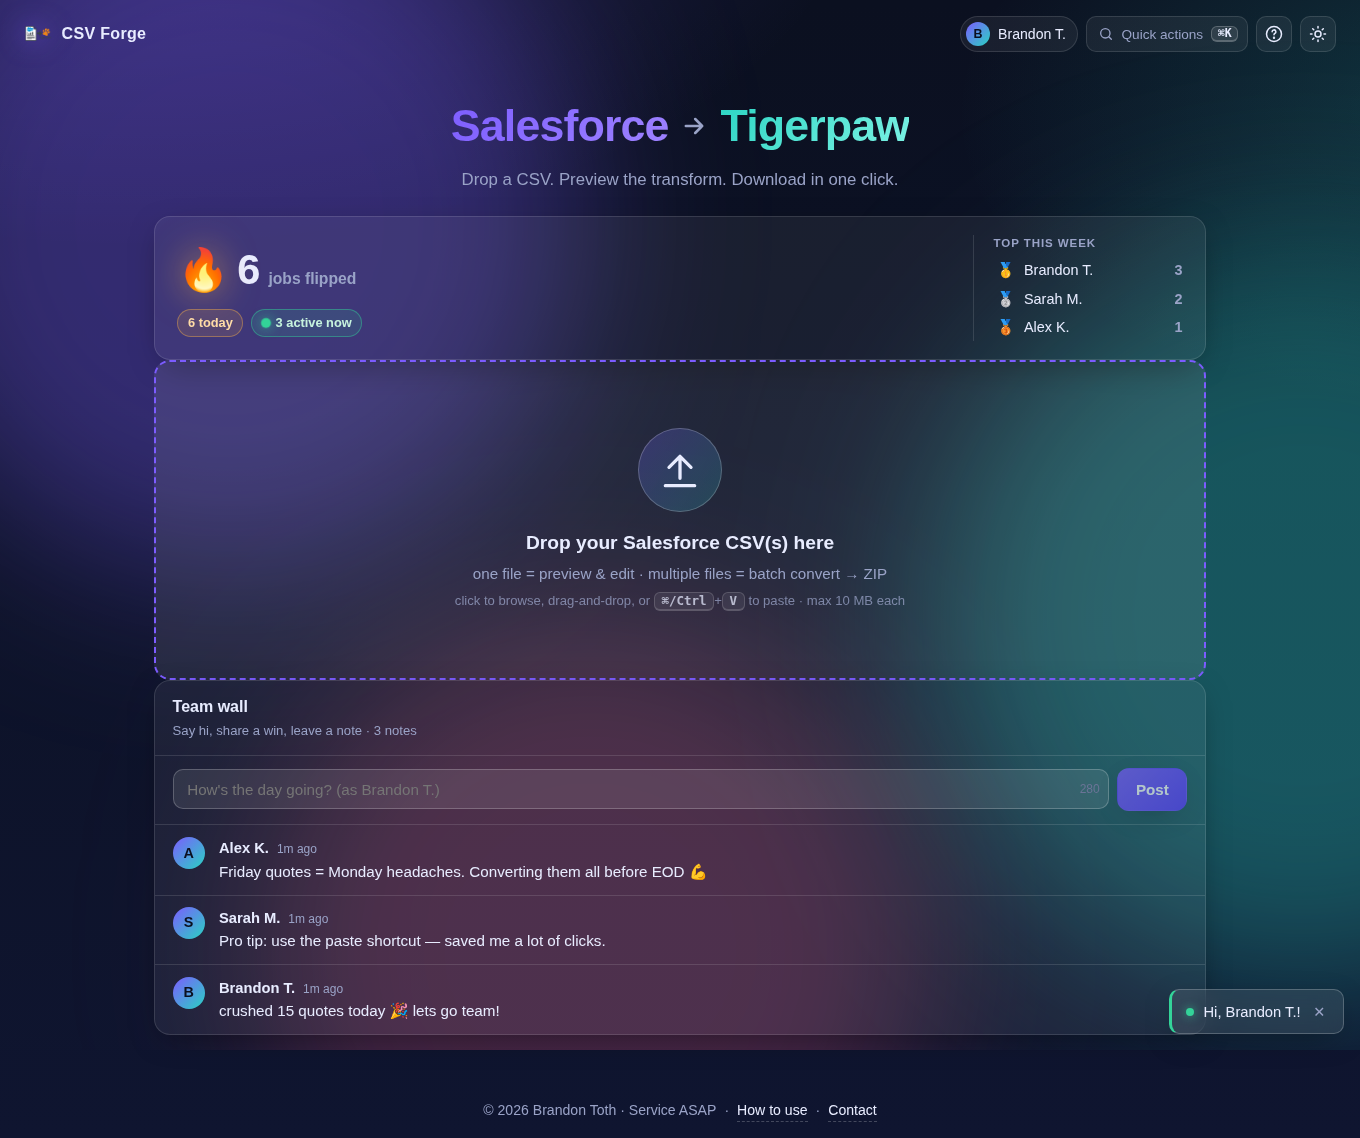
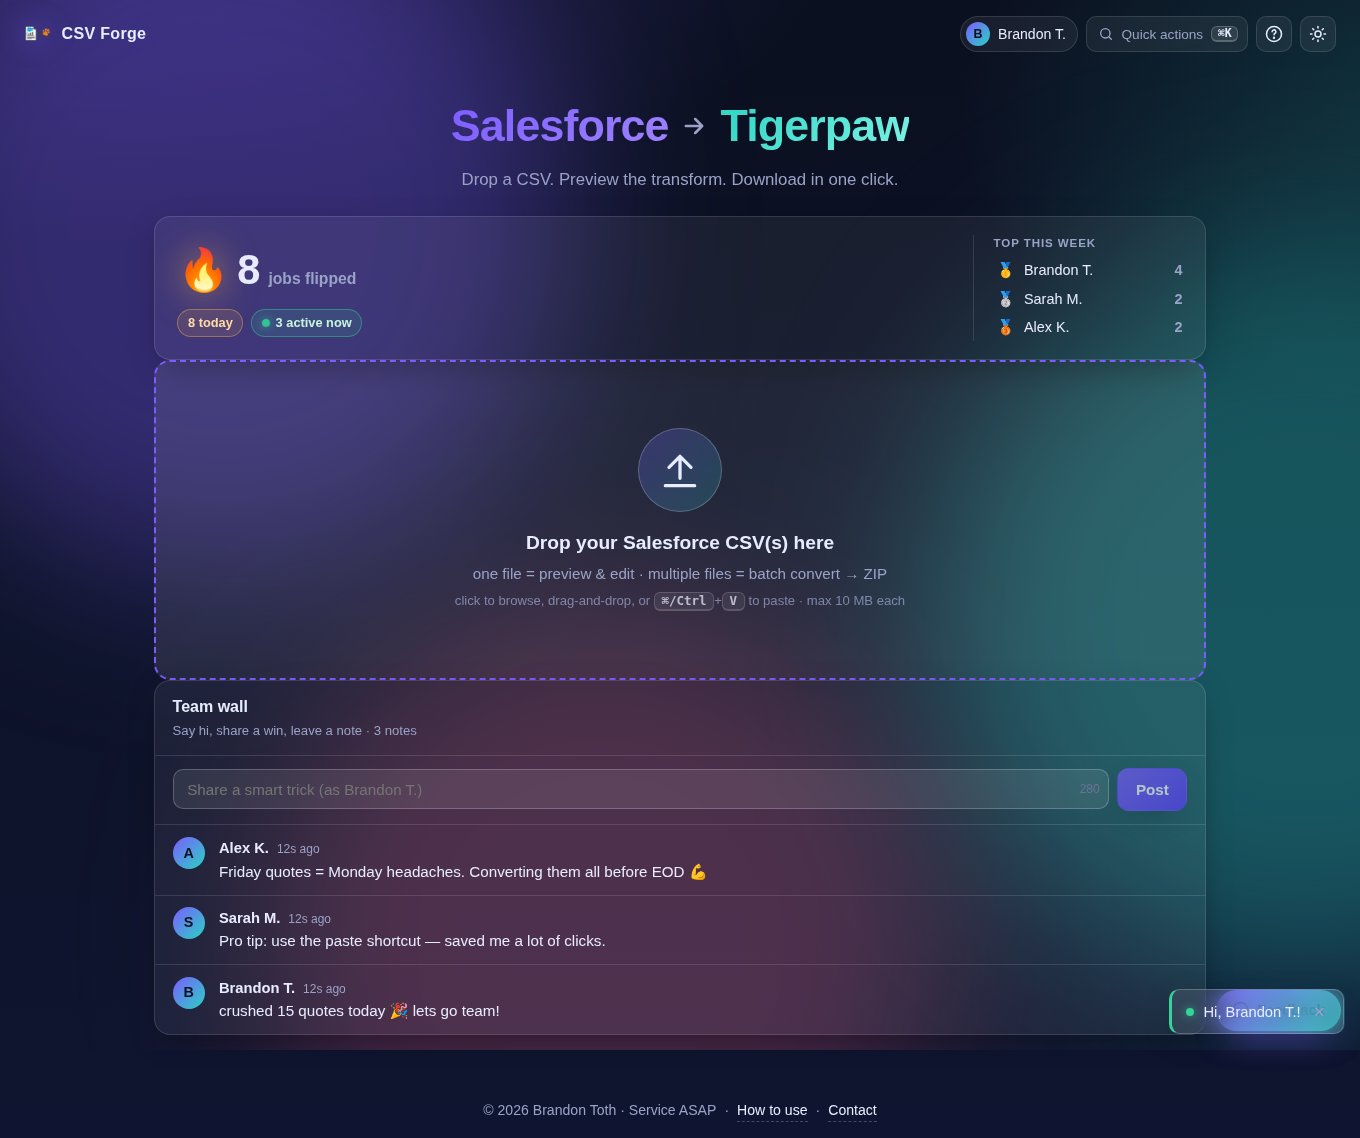
Docs: update README + CHANGELOG for v1.5.0; prune stale screenshots
- README version badge bumped to 1.5.0.
- Highlights: mention the feedback inbox, team wall, public stats on the
  idle page, and location flags in the admin event feed.
- New "Feedback — suggestions & issues" subsection under Tour, with
  both screenshots (modal + admin inbox) embedded inline.
- Admin section: expand the live event feed bullet to cover the
  feedback_submitted / note_posted event types and the gradient country
  flag badge that appears when ENABLE_GEOIP is on. Add a dedicated
  "Feedback inbox" bullet.
- Public API table: add POST /api/feedback.
- Admin API table: add the four /admin/api/feedback endpoints and note
  that /admin/api/events now includes geo per event.
- CHANGELOG: new 1.5.0 entry covering the feedback system, flag badges,
  country_code migration, endpoints, and the 4 new tests.
- Refresh 17-idle-with-wall.png so it shows the feedback FAB in the
  bottom-right corner.
- Delete three orphan screenshots superseded by newer versions:
  11-name-modal (replaced by 16-name-required),
  12-user-chip (subsumed into 17-idle-with-wall),
  18-admin-with-export (subsumed into 20-admin-feedback).

38/38 tests pass, eslint clean, vite build clean.

https://claude.ai/code/session_01BBhDEEaThvbCGpmssuPfLr

Changed region(s): [[0.8647, 0.8612, 0.9882, 0.9227], [0.1853, 0.6766, 0.2779, 0.7074], [0.2162, 0.7996, 0.2471, 0.8304]]

diff --git a/README.md b/README.md
@@ -1,6 +1,6 @@
 # Salesforce → Tigerpaw CSV Converter
 
-![Version](https://img.shields.io/badge/version-1.4.0-blue)
+![Version](https://img.shields.io/badge/version-1.5.0-blue)
 ![License: MIT](https://img.shields.io/badge/License-MIT-yellow.svg)
 [![Publish Docker image to GHCR](https://github.com/btoth525/Salesforce-to-Tigerpaw-Converter/actions/workflows/docker-publish.yml/badge.svg)](https://github.com/btoth525/Salesforce-to-Tigerpaw-Converter/actions/workflows/docker-publish.yml)
 
@@ -22,7 +22,10 @@ A production-ready Flask + React web app that turns Salesforce CSV exports into 
 - **Global drop-anywhere** — drag a file over the window and the entire app becomes a drop target.
 - **Toasts, skeleton loader, count-up stats** — the small polish that makes it feel like a $50/month product.
 - **Dark / light themes** with persistence, plus a keyboard help overlay (`?`).
-- **Admin panel at `/admin`** — see who's using it, live event feed, device breakdown, per-user drill-down. Password-gated.
+- **Public stats on the idle page** — animated "🔥 jobs flipped" counter, "active now" pulsing pill, top-5 weekly 🥇🥈🥉 leaderboard.
+- **Team wall** — 280-char shoutbox where the team celebrates wins or drops a tip.
+- **Feedback & issues inbox** — floating FAB on every page, admins see submissions in a filterable card on `/admin` with one-click resolve.
+- **Admin panel at `/admin`** — password-gated dashboard with live event feed, device breakdown, country flag + city on each event (with GeoIP on), per-user drill-down, CSV export, per-user delete, and reset.
 - **Safe by default** — 10 MB upload cap, encoding sniffed without loading the whole file, fail-fast `SECRET_KEY` + `ADMIN_PASSWORD` in production, directory-traversal protection, non-root container, `/api/health` HEALTHCHECK.
 
 ---
@@ -101,6 +104,21 @@ Below the drop zone, the **Team Wall** is a 280-char shoutbox where anyone who's
 identified can post a quick note — celebrate a win, share a tip, drop a vibe.
 Auto-refreshes every 30s.
 
+### Feedback — suggestions & issues
+
+![Feedback modal](docs/screenshots/19-feedback-modal.png)
+
+A floating **Feedback** button sits in the bottom-right of every page. Click
+it (or `⌘K → "Send feedback"`) to file a 💡 **Suggestion** or a 🐛 **Issue**
+— up to 2,000 characters, with a live counter. Submissions land in the admin
+dashboard instantly.
+
+![Admin feedback inbox](docs/screenshots/20-admin-feedback.png)
+
+Admins get a dedicated **Feedback** card with an open-count badge, filter
+chips (Open / Resolved / All), color-coded pills per kind, and per-row
+**Mark resolved / Reopen / Delete** actions.
+
 ---
 
 ## Admin panel
@@ -117,8 +135,13 @@ production).
   the right.
 - **Live event feed** — auto-refreshes every 5 seconds, color-coded pills
   per event type (`identify`, `preview`, `convert`, `convert_edited`,
-  `convert_batch`), filename + row count + device + IP + relative time.
+  `convert_batch`, `feedback_submitted`, `note_posted`), filename + row
+  count + device + IP + relative time. With `ENABLE_GEOIP=1`, public IPs
+  resolve to a gradient pill showing the **country flag emoji + map pin +
+  "City, Region, Country"** (ISP on hover).
 - **Device / OS / browser breakdowns** — the last 7 days, with percent bars.
+- **Feedback inbox** — filterable card with open-count badge; one-click
+  resolve / reopen / delete.
 - **User table** — active-now green dot, event count, last seen, first
   seen, device fingerprint, last IP. Click any row for the drill-down.
 
@@ -147,8 +170,12 @@ All admin JSON endpoints require the session cookie set by `/admin/login`.
 | `GET`  | `/admin/api/users` | All users, newest `last_seen` first |
 | `GET`  | `/admin/api/user/<id>` | Single user + last 50 events |
 | `POST` | `/admin/api/user/<id>/delete` | Delete one user and all their events + notes |
-| `GET`  | `/admin/api/events?limit=N` | Recent events (newest first, max 500) |
+| `GET`  | `/admin/api/events?limit=N` | Recent events (newest first, max 500). Includes geo on each event when GeoIP is on. |
 | `GET`  | `/admin/api/export` | Download every event as a CSV (for Excel / audit) |
+| `GET`  | `/admin/api/feedback?status=open\|resolved\|all` | List feedback items + open count |
+| `POST` | `/admin/api/feedback/<id>/resolve` | Mark a feedback item resolved |
+| `POST` | `/admin/api/feedback/<id>/reopen` | Reopen a resolved item |
+| `DELETE` | `/admin/api/feedback/<id>` | Delete a feedback item permanently |
 | `POST` | `/admin/api/reset` | Wipe all telemetry |
 
 ### Privacy
@@ -267,6 +294,7 @@ cd frontend && npm run build        # production bundle
 | `POST` | `/api/identify` | Register / update the current user's name. Rejects empty / "Guest". |
 | `GET`  | `/api/public-stats` | Public totals + top-5 weekly leaderboard (safe to display on the idle page). |
 | `GET`/`POST` | `/api/notes` | Team wall — read recent notes, post a new one (280 char max). |
+| `POST` | `/api/feedback` | Submit a suggestion or issue (requires a real `X-User-Name`, 2 000 char max). |
 | `GET`  | `/api/health` | `{"status":"ok"}` — used by the container HEALTHCHECK. |
 | `GET`  | `/` and `/<path>` | Serves the React SPA. |
 

diff --git a/CHANGELOG.md b/CHANGELOG.md
@@ -2,6 +2,22 @@
 
 All notable changes to this project will be documented in this file.
 
+## [1.5.0] - 2026-04-21
+### Added
+- **Feedback / issues inbox**: floating FAB button on every page opens a modal with a 💡 Suggestion / 🐛 Issue toggle, textarea (2 000 char max), and submit flow. Admins get a new filterable card on `/admin` with open-count badge and one-click **Mark resolved / Reopen / Delete**. Also reachable from the command palette.
+- **Location flag badges**: admin event feed now shows a gradient pill with the country flag emoji (derived from ISO country code), a map-pin SVG, and "City, Region, Country" when `ENABLE_GEOIP=1` resolves the IP. ISP shows on hover.
+### Changed
+- `resolve_geo` now fetches + caches `countryCode` from ip-api.com. `ip_geo` table migrates idempotently via `ALTER TABLE ADD COLUMN`.
+- New `feedback` table with indexed `status` and `created_at` columns.
+### Endpoints
+- `POST /api/feedback`
+- `GET /admin/api/feedback`
+- `POST /admin/api/feedback/<id>/resolve`
+- `POST /admin/api/feedback/<id>/reopen`
+- `DELETE /admin/api/feedback/<id>`
+### Tests
+- 4 new integration tests covering feedback auth, validation, and the full resolve/reopen/delete cycle. 38/38 pass.
+
 ## [1.4.0] - 2026-04-21
 ### Added
 - **Team wall on the main page** — 280-char shoutbox visible to anyone using the app. Auto-refreshes; any identified user can post. `GET/POST /api/notes`.
